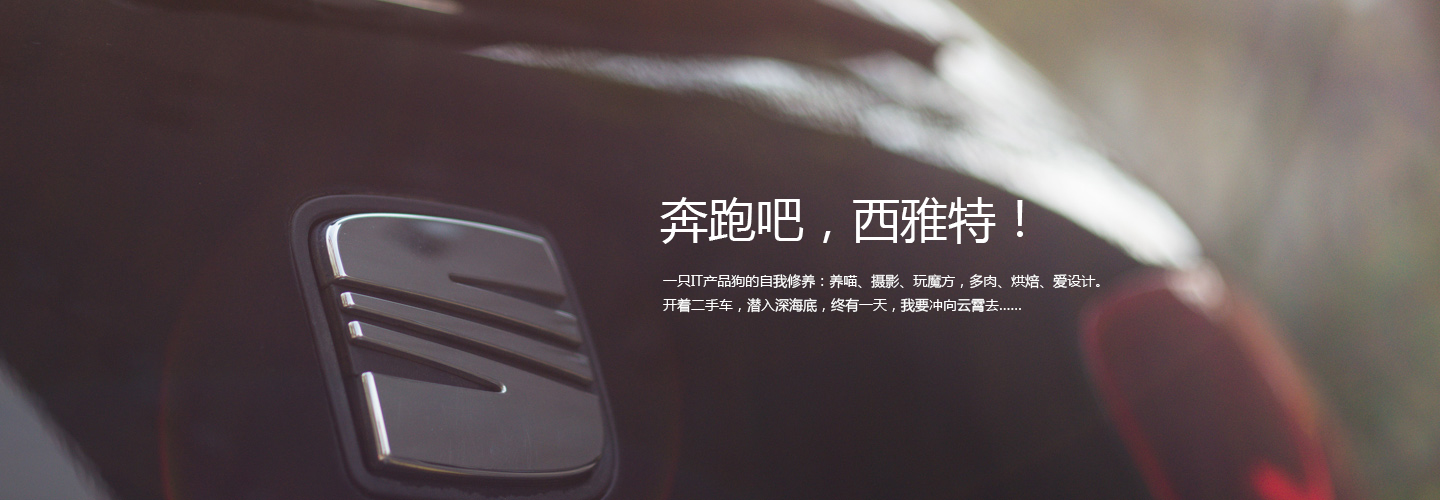
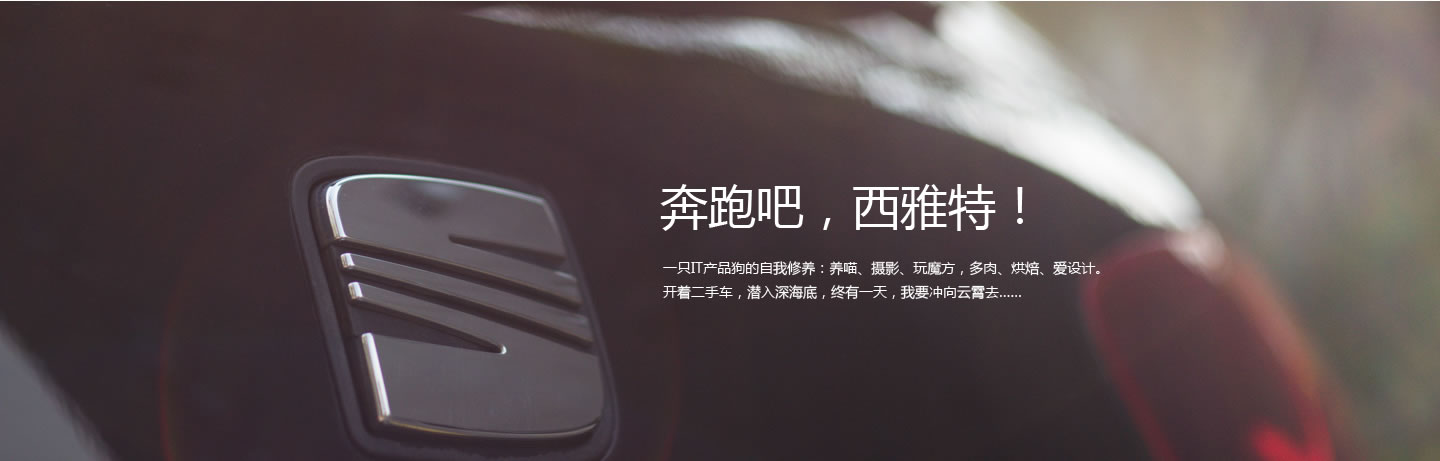
index_11

diff --git a/assets/js/buyer-form.js b/assets/js/buyer-form.js
@@ -129,7 +129,7 @@ define(['souche/add-series','souche/custom-select','souche/util/load-info'],func
                         $(".buyer-popup").removeClass("hidden");
                         setTimeout(function(){
                           window.location.href="/pages/buyer.html"
-                        }3000);
+                        },5000);
                     }
                 })
 //                $("#main-form").submit();

diff --git a/assets/css/index/story.less b/assets/css/index/story.less
@@ -3,11 +3,10 @@
     .banner{
       width: 100%;
       padding: 0px;
-      height: 500px;
+      height: 460px;
       background-size: cover;
       background-position: center;
-      background-image: url(../../images/story/aj-banner.jpg);
-      filter: progid:DXImageTransform.Microsoft.AlphaImageLoader(src='../../images/story/aj-banner.jpg',sizingMethod='scale');
+      
       img{
         width: 100%;
        
